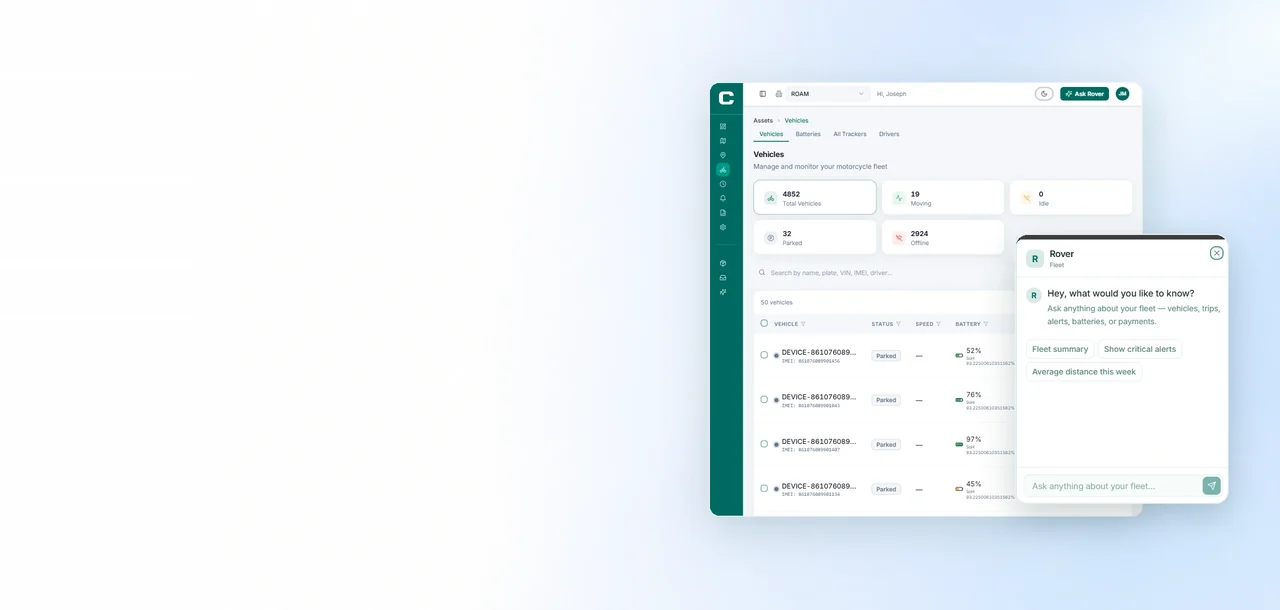
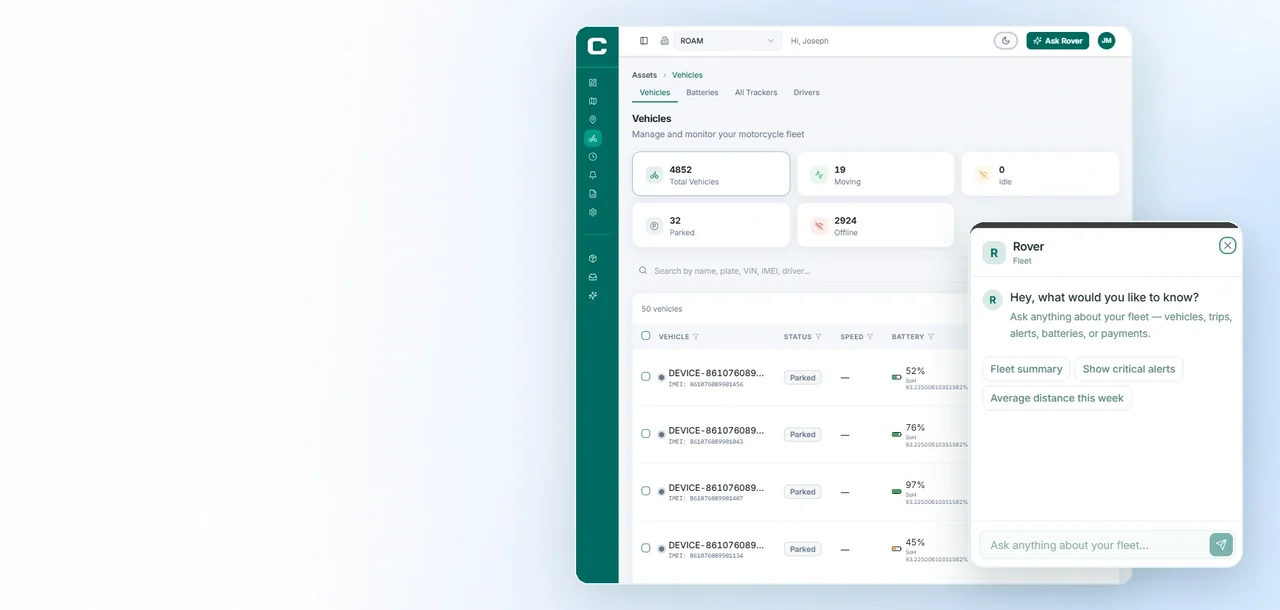
01 The problem: crop in on the screens so they fill the section
The screens took under half the width and ~70% of the height. The art is
now cropped close around them (1764x840, still 2.1:1 so nothing is cut
off by the box): they fill ~90% of the height and the headline keeps its
clear column. Phones and tablets unchanged.

Claude-Session: https://claude.ai/code/session_019hg5JKm3Ajc1VUuZ1vD315

Changed region(s): [[0.4375, 0.0311, 1.0, 1.0], [0.6875, 0.6852, 0.8125, 0.7787], [0.6875, 0.3115, 0.7188, 0.3426]]

diff --git a/index.html b/index.html
@@ -243,8 +243,8 @@ p,h1,h2,h3,ul{margin:0}
 #why.band > .wrap{gap:var(--eg)}
 @media (min-width:1024px){
   /* text sits on the clear wall, its top level with the laptop screen, ending well above the desk line */
-  #why.band{align-items:flex-start;min-height:0;aspect-ratio:2268/1080}
-  #why.band > .wrap{gap:0;padding-block:calc(100vw * 1080 / 2268 * .2) 0}
+  #why.band{align-items:flex-start;min-height:0;aspect-ratio:1764/840}
+  #why.band > .wrap{gap:0;padding-block:calc(100vw * 840 / 1764 * .2) 0}
   #why.band.light .photo{object-position:0% 50%}
   #why.band.light::after{background:linear-gradient(90deg,rgba(246,249,254,.5) 0%,rgba(246,249,254,.22) 22%,rgba(246,249,254,0) 36%)}
   #why.band.light .label{letter-spacing:.18em}
@@ -1143,7 +1143,7 @@ p,h1,h2,h3,ul{margin:0}
 
   <section id="why" class="bleed band light has-media" data-sec="Why it matters" data-sid="why" data-slot="why" data-slot-l="Section background" data-default-media="images/why-it-matters.webp" aria-labelledby="why-title">
     <canvas data-seed="2207" aria-hidden="true"></canvas>
-    <picture class="default-pic"><source media="(max-width:1023px)" srcset="images/why-mobile.webp?v=14 1100w, images/why-mobile-1700.webp?v=14 1360w" sizes="100vw"><img class="photo" src="images/why-it-matters.webp?v=13" srcset="images/why-it-matters-1280.webp?v=13 1280w, images/why-it-matters.webp?v=13 2268w" sizes="100vw" alt="The Canopy vehicles screen, with fleet totals and a vehicle list, and the Rover AI assistant open beside it" width="2268" height="1080" loading="lazy" decoding="async"></picture>
+    <picture class="default-pic"><source media="(max-width:1023px)" srcset="images/why-mobile.webp?v=14 1100w, images/why-mobile-1700.webp?v=14 1360w" sizes="100vw"><img class="photo" src="images/why-it-matters.webp?v=14" srcset="images/why-it-matters-1280.webp?v=14 1280w, images/why-it-matters.webp?v=14 1764w" sizes="100vw" alt="The Canopy vehicles screen, with fleet totals and a vehicle list, and the Rover AI assistant open beside it" width="1764" height="840" loading="lazy" decoding="async"></picture>
     <div class="wrap">
       <p class="label" data-k="why.label" data-l="Small label">01 The problem</p>
       <h2 id="why-title" class="h-sec" data-k="why.title" data-l="Headline">Limited asset control. Higher risk.</h2>
